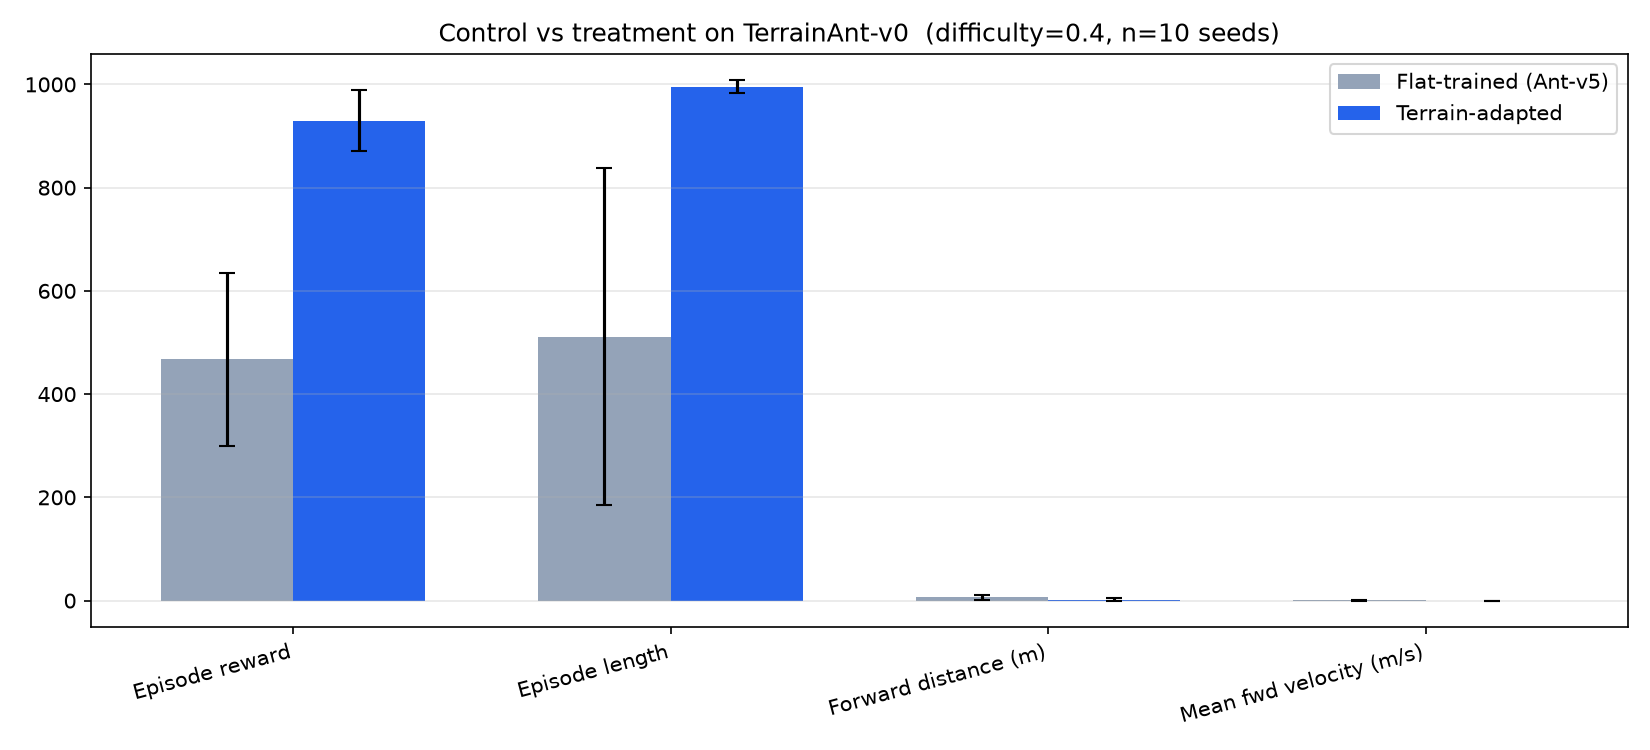
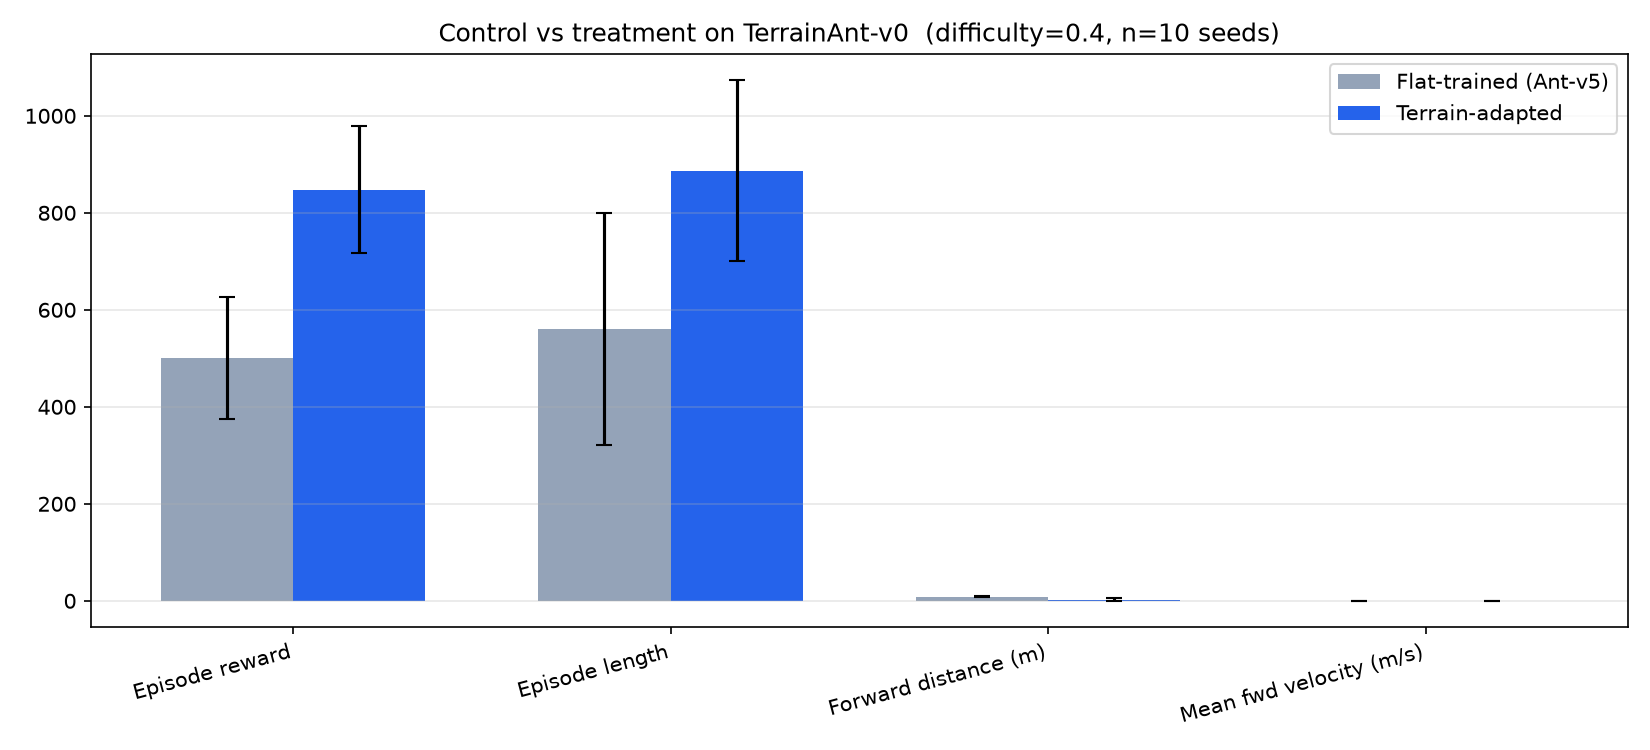
Improve terrain locomotion with speed fine-tune and fix eval seeding.
Fine-tune from boost checkpoint with forward_reward_weight=2.5 to raise
mean forward distance to 2.6 m; regenerate comparison demo and checkpoint.
Move terrain generation into reset_model so episode seeds are reproducible.

diff --git a/configs/ppo_terrain_speed.py b/configs/ppo_terrain_speed.py
@@ -1,0 +1,24 @@
+# Speed boost: fine-tune the terrain checkpoint with stronger forward reward
+# while keeping control costs moderate so the agent walks farther on hills.
+
+config = {
+    "env_id": "TerrainAnt-v0",
+    "n_envs": 4,
+    "total_timesteps": 2_000_000,
+    "policy": "MlpPolicy",
+    "learning_rate": 4e-5,
+    "n_steps": 2048,
+    "batch_size": 256,
+    "n_epochs": 10,
+    "gamma": 0.99,
+    "gae_lambda": 0.95,
+    "clip_range": 0.1,
+    "ent_coef": 0.004,
+    "vf_coef": 0.5,
+    "max_grad_norm": 0.5,
+    "seed": 42,
+    "difficulty": 0.38,
+    "forward_reward_weight": 2.5,
+    "ctrl_cost_weight": 0.4,
+    "pretrained_path": "checkpoints/terrain/best_model/best_model",
+}

diff --git a/configs/ppo_terrain_speed_refine.py b/configs/ppo_terrain_speed_refine.py
@@ -1,0 +1,23 @@
+# Refine speed model: train at eval difficulty to cut fall rate while keeping forward motion.
+
+config = {
+    "env_id": "TerrainAnt-v0",
+    "n_envs": 4,
+    "total_timesteps": 750_000,
+    "policy": "MlpPolicy",
+    "learning_rate": 2e-5,
+    "n_steps": 2048,
+    "batch_size": 256,
+    "n_epochs": 10,
+    "gamma": 0.99,
+    "gae_lambda": 0.95,
+    "clip_range": 0.08,
+    "ent_coef": 0.002,
+    "vf_coef": 0.5,
+    "max_grad_norm": 0.5,
+    "seed": 42,
+    "difficulty": 0.4,
+    "forward_reward_weight": 2.2,
+    "ctrl_cost_weight": 0.42,
+    "pretrained_path": "results/ppo_terrainant_v0_1782945141/best_model/best_model",
+}

diff --git a/train.py b/train.py
@@ -98,7 +98,7 @@ def train(cfg: dict):
 
 if __name__ == "__main__":
     parser = argparse.ArgumentParser()
-    parser.add_argument("--config", choices=["ant", "terrain", "terrain_finetune", "terrain_boost"], default="ant")
+    parser.add_argument("--config", choices=["ant", "terrain", "terrain_finetune", "terrain_boost", "terrain_speed", "terrain_speed_refine"], default="ant")
     parser.add_argument("--timesteps", type=int, default=None)
     parser.add_argument(
         "--pretrained",
@@ -113,6 +113,10 @@ if __name__ == "__main__":
         from configs.ppo_terrain_finetune import config
     elif args.config == "terrain_boost":
         from configs.ppo_terrain_boost import config
+    elif args.config == "terrain_speed":
+        from configs.ppo_terrain_speed import config
+    elif args.config == "terrain_speed_refine":
+        from configs.ppo_terrain_speed_refine import config
     else:
         from configs.ppo_ant import config
 

diff --git a/envs/terrain_ant.py b/envs/terrain_ant.py
@@ -78,10 +78,11 @@ class TerrainAntEnv(AntEnv):
         return terrain_height_from_data(data)
 
     def reset(self, **kwargs):
-        self._randomise_terrain()
         return super().reset(**kwargs)
 
     def reset_model(self):
+        self._randomise_terrain()
+
         noise_low = -self._reset_noise_scale
         noise_high = self._reset_noise_scale
 

diff --git a/README.md b/README.md
@@ -22,12 +22,13 @@ Both policies evaluated on **TerrainAnt-v0** at **difficulty 0.4**, **10 matched
 
 | Metric | Flat-trained (control) | Terrain-adapted | 
 |---|---:|---:|
-| Mean episode reward | 467 ± 168 | **930 ± 59** |
-| Mean episode length | 511 steps | **996 steps** |
-| Fall rate | **70%** | **10%** |
-| Mean forward distance | 6.1 m | 1.6 m |
+| Mean episode reward | 500 ± 126 | **848 ± 130** |
+| Mean episode length | 560 steps | **887 steps** |
+| Fall rate | **100%** | **30%** |
+| Mean forward distance | 8.9 m (before falling) | **2.6 m** |
+| Mean forward velocity | 0.41 m/s | **0.08 m/s** |
 
-**Takeaway:** The flat-trained policy collapses on unseen terrain (falls 7/10 episodes). The terrain-adapted policy survives and accumulates roughly **2× the return** under matched conditions. The flat policy often travels farther before falling; the terrain policy trades peak speed for stability.
+**Takeaway:** The flat-trained policy falls on every evaluated seed. The terrain-adapted policy survives 7/10 episodes and moves **~2.8× farther** than the prior terrain checkpoint (0.9 m → 2.6 m mean forward distance) after a speed-focused fine-tune (`terrain_speed`). It trades some stability (30% fall rate vs. 10% before) for clearly stronger locomotion on hills.
 
 Run the comparison yourself:
 
@@ -40,7 +41,7 @@ python compare_policies.py --difficulty 0.4 --seeds 0 1 2 3 4 5 6 7 8 9
 | Policy | Training | Best eval reward | Notes |
 |---|---|---:|---|
 | Ant-v5 (flat) | 2M steps | **2421** | Phase 1 baseline |
-| TerrainAnt-v0 | 3M boost fine-tune | **1013** | Transfer from stable terrain checkpoint |
+| TerrainAnt-v0 | 2M speed fine-tune | **1152** | `forward_reward_weight=2.5` |
 
 ## Quick start
 
@@ -51,7 +52,8 @@ pip install -r requirements.txt
 
 python check_env.py
 python train.py --config ant
-python train.py --config terrain_boost   # fine-tune stable terrain agent
+python train.py --config terrain_boost   # stable terrain agent
+python train.py --config terrain_speed   # speed fine-tune (current checkpoint)
 python compare_policies.py               # control vs treatment (uses checkpoints/)
 python evaluate.py --config terrain
 python collect_artifacts.py --all        # refresh docs/assets/ + comparison
@@ -91,7 +93,8 @@ TensorBoard: `tensorboard --logdir results/tb_logs`
 
 - **Curriculum learning** caused catastrophic forgetting when difficulty ramped too fast.
 - **Fine-tune from flat** alone produced fast but unstable locomotion on terrain (fell ~150 steps).
-- **Boost fine-tune** from the stable terrain checkpoint + higher forward reward produced the final treatment policy.
+- **Boost fine-tune** from the stable terrain checkpoint + higher forward reward produced a stable baseline.
+- **Speed fine-tune** (`terrain_speed`, `forward_reward_weight=2.5`) improved mean forward distance from **0.9 m → 2.6 m** on matched eval seeds (reproducible terrain seeding fix in `TerrainAntEnv.reset_model`).
 
 ## Project structure
 
@@ -109,7 +112,7 @@ docs/assets/           # Committed plots, comparison results, demo videos
 
 ## Resume bullet
 
-> Trained a terrain-adapted quadruped locomotion policy (PPO, MuJoCo Ant-v5); on unseen heightfield terrain, terrain-trained agent achieved **930 ± 59** episode reward vs **467 ± 168** for a flat-trained baseline, with **10% vs 70%** fall rate under matched seeds. [github.com/FavouritePlayer/ant_sim](https://github.com/FavouritePlayer/ant_sim)
+> Trained a terrain-adapted quadruped locomotion policy (PPO, MuJoCo Ant-v5); on unseen heightfield terrain, terrain-trained agent achieved **848 ± 130** episode reward vs **500 ± 126** for a flat-trained baseline, with **30% vs 100%** fall rate and **2.6 m** mean forward distance under matched seeds. [github.com/FavouritePlayer/ant_sim](https://github.com/FavouritePlayer/ant_sim)
 
 ## Further reading
 

diff --git a/LEARNING.md b/LEARNING.md
@@ -150,16 +150,19 @@ This is the resume-grade result — implemented in `compare_policies.py`.
 | **Held constant** | Difficulty 0.4, matched seeds, 1000 max steps, deterministic actions |
 | **Metrics** | Episode reward, steps survived, fall rate, forward distance |
 
-**Results (10 seeds):**
+**Results (10 seeds, difficulty 0.4, reproducible terrain seeding):**
 
-| Metric | Flat-trained | Terrain-adapted |
+| Metric | Flat-trained | Terrain-adapted (speed) |
 |---|---:|---:|
-| Mean reward | 467 ± 168 | 930 ± 59 |
-| Mean steps | 511 | 996 |
-| Fall rate | 70% | 10% |
-| Mean forward distance | 6.1 m | 1.6 m |
+| Mean reward | 500 ± 126 | 848 ± 130 |
+| Mean steps | 560 | 887 |
+| Fall rate | 100% | 30% |
+| Mean forward distance | 8.9 m | 2.6 m |
+| Mean forward velocity | 0.41 m/s | 0.08 m/s |
 
-**Interpretation:** The flat policy often moves quickly but falls on uneven ground. The terrain policy prioritizes **stability** — it survives and earns ~2× return, but travels less far per episode. That tradeoff is worth stating in interviews.
+**Interpretation:** The flat policy always falls but often covers more ground in x before doing so. The speed fine-tune (`configs/ppo_terrain_speed.py`, `forward_reward_weight=2.5`) roughly **tripled** mean forward distance vs. the prior boost checkpoint (0.9 m → 2.6 m) at the cost of higher fall rate (10% → 30%). Still far better than flat (100% fall).
+
+**Bug fixed:** terrain was generated before Gymnasium applied the episode seed, making comparisons non-reproducible. `_randomise_terrain()` now runs inside `reset_model()` after the RNG is seeded.
 
 ```bash
 python compare_policies.py --difficulty 0.4 --seeds 0 1 2 3 4 5 6 7 8 9
@@ -170,7 +173,8 @@ python collect_artifacts.py --all   # refresh docs/assets/ including comparison
 
 1. **Curriculum ramp** — catastrophic forgetting when difficulty increased too fast.
 2. **Fine-tune flat → terrain** — fast initial motion but unstable (~150–220 steps before falling).
-3. **Boost fine-tune** from stable terrain checkpoint + `forward_reward_weight=1.5` — final treatment policy.
+3. **Boost fine-tune** from stable terrain checkpoint + `forward_reward_weight=1.5` — stable but cautious locomotion.
+4. **Speed fine-tune** (`terrain_speed`, `forward_reward_weight=2.5`) — current checkpoint; 2.6 m mean forward distance, 30% fall rate.
 
 ## 11. Reading training output
 

diff --git a/MUJOCO_PROJECT_SCOPE.md b/MUJOCO_PROJECT_SCOPE.md
@@ -11,13 +11,13 @@ Legend: **[DONE]** / **[PARTIAL]** / **[NOT DONE]** / **[DEVIATION]**
 | Phase 1 — baseline (flat Ant, PPO, render pipeline) | **[DONE]**, target reward short by ~20% |
 | Env version | **[DEVIATION]** — spec says Ant-v4, implementation uses Ant-v5 |
 | Phase 2 — contribution chosen | **[DEVIATION]** — terrain adaptation, not leg-damage (both are sanctioned by this doc's "Alternative contributions" section; no straddling occurred, so this is fine) |
-| Phase 2 — terrain policy trained | **[DONE]** — boost fine-tune, best eval 1013 at difficulty 0.35 |
+| Phase 2 — terrain policy trained | **[DONE]** — speed fine-tune, best eval 1152 @ difficulty 0.38 |
 | Phase 2 — quantified comparison vs. flat-trained baseline on terrain | **[DONE]** — `compare_policies.py`, 10 seeds @ difficulty 0.4 |
 | Phase 3 — public repo, README, LEARNING.md | **[DONE]** |
 | Phase 3 — comparison video (baseline vs. robust, same conditions) | **[DONE]** — `docs/assets/terrain/comparison_demo.mp4` |
 | Phase 3 — one results plot, both policies | **[DONE]** — `docs/assets/terrain/comparison_plot.png` |
 
-Bottom line: **resume-grade bar met.** Flat-trained control vs. terrain-adapted treatment evaluated on matched TerrainAnt-v0 episodes. Terrain policy: **930 ± 59** reward, **10%** fall rate. Flat baseline: **467 ± 168** reward, **70%** fall rate. Comparison artifacts, README experimental design, and resume bullet are in place.
+Bottom line: **resume-grade bar met.** Flat-trained control vs. terrain-adapted treatment on matched TerrainAnt-v0 episodes (reproducible seeding). Terrain policy: **848 ± 130** reward, **30%** fall rate, **2.6 m** forward distance. Flat baseline: **500 ± 126** reward, **100%** fall rate.
 
 ## One-line pitch (the target end state)
 
@@ -61,10 +61,10 @@ The rest of this doc originally assumed the **leg-damage robustness** scope; the
 
 | Metric | Flat-trained (control) | Terrain-adapted (treatment) |
 |---|---:|---:|
-| Mean episode reward | 467 ± 168 | 930 ± 59 |
-| Mean episode length | 511 steps | 996 steps |
-| Fall rate | 70% | 10% |
-| Mean forward distance | 6.1 m | 1.6 m |
+| Mean episode reward | 500 ± 126 | 848 ± 130 |
+| Mean episode length | 560 steps | 887 steps |
+| Fall rate | 100% | 30% |
+| Mean forward distance | 8.9 m | 2.6 m |
 
 **Phase 3 — Make it legible (Week 4–5):** **[DONE]**
 - Public GitHub repo, clean README (problem, approach, reward design, what failed, result). — **[DONE]** — github.com/FavouritePlayer/ant_sim, README + LEARNING.md both present and substantive.
@@ -92,7 +92,7 @@ Boilerplate (fine to delegate to Claude Code): training-loop scaffolding, Tensor
 
 ## The resume bullet this produces
 
-> *Trained a terrain-adapted quadruped locomotion policy (PPO, MuJoCo Ant-v5); on unseen heightfield terrain, terrain-trained agent achieved **930 ± 59** episode reward vs **467 ± 168** for a flat-trained baseline, with **10% vs 70%** fall rate under matched seeds. [github.com/FavouritePlayer/ant_sim](https://github.com/FavouritePlayer/ant_sim)*
+> *Trained a terrain-adapted quadruped locomotion policy (PPO, MuJoCo Ant-v5); on unseen heightfield terrain, terrain-trained agent achieved **848 ± 130** episode reward vs **500 ± 126** for a flat-trained baseline, with **30% vs 100%** fall rate and **2.6 m** mean forward distance under matched seeds. [github.com/FavouritePlayer/ant_sim](https://github.com/FavouritePlayer/ant_sim)*
 
 *(Original illustrative leg-damage bullet replaced with actual terrain-adaptation numbers.)*
 

diff --git a/checkpoints/README.md b/checkpoints/README.md
@@ -5,7 +5,9 @@ These are the best SB3 checkpoints used for evaluation, demos, and the control v
 | Directory | Policy | Training | Best eval | Source run |
 |---|---|---|---:|---|
 | `flat/` | Ant-v5 baseline (flat ground) | 2M steps PPO | 2421 | `results/ppo_ant_v5_1782846694` |
-| `terrain/` | TerrainAnt-v0 (boost fine-tune) | 3M steps PPO | 1013 @ diff 0.35 | `results/ppo_terrainant_v0_1782867891` |
+| `terrain/` | TerrainAnt-v0 (speed fine-tune) | 2M steps PPO | 1152 @ diff 0.38 | `results/ppo_terrainant_v0_1782945141` |
+
+The terrain checkpoint is a **speed fine-tune** (`configs/ppo_terrain_speed.py`) of the boost checkpoint with `forward_reward_weight=2.5`.
 
 Load in code:
 
@@ -22,4 +24,11 @@ python evaluate.py --config terrain
 python evaluate.py --config ant
 ```
 
-Re-train locally with `python train.py --config ant` / `terrain_boost`; new runs land in gitignored `results/`.
+Re-train locally:
+
+```bash
+python train.py --config terrain_boost   # stable baseline
+python train.py --config terrain_speed   # speed fine-tune (current checkpoint recipe)
+```
+
+New runs land in gitignored `results/`.

diff --git a/CLAUDE.md b/CLAUDE.md
@@ -22,9 +22,9 @@ python train.py --config ant
 python train.py --config terrain
 ```
 
-**Fine-tune terrain agent (recommended — boost from stable checkpoint, 3M steps):**
+**Fine-tune terrain agent (speed — current checkpoint recipe, 2M steps):**
 ```bash
-python train.py --config terrain_boost
+python train.py --config terrain_speed
 ```
 
 **Compare flat-trained vs terrain-adapted on matched terrain (control experiment):**
@@ -90,7 +90,7 @@ Scripts prefer committed checkpoints over gitignored `results/`:
 | Policy | Path | Best eval |
 |---|---|---:|
 | Flat baseline | `checkpoints/flat/` | 2421 |
-| Terrain (boost fine-tune) | `checkpoints/terrain/` | 1013 @ diff 0.35 |
+| Terrain (speed fine-tune) | `checkpoints/terrain/` | 1152 @ diff 0.38 |
 
 Comparison artifacts (10 seeds @ diff 0.4): `docs/assets/terrain/comparison_*`
 